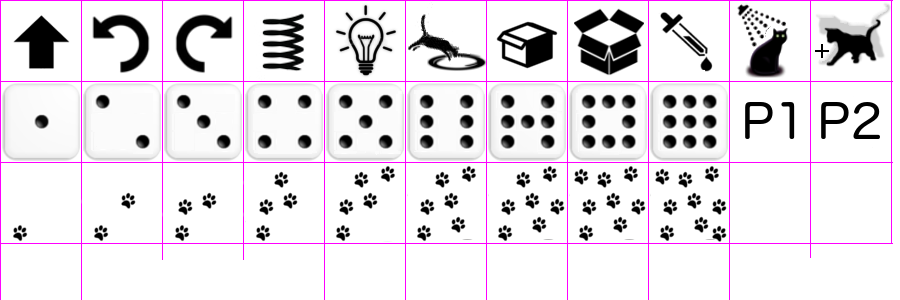
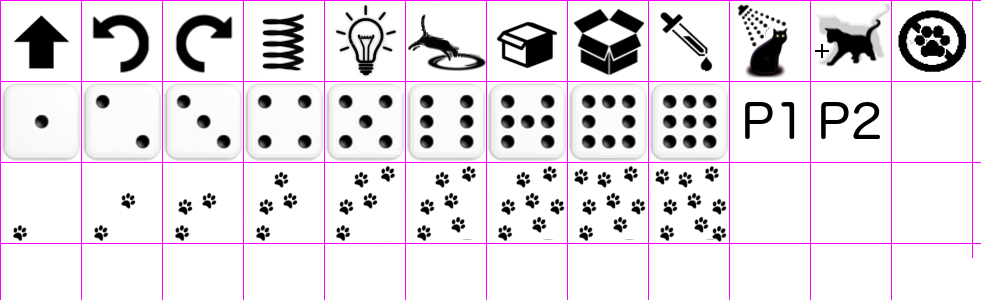
break

diff --git a/src/UI/Gui.java b/src/UI/Gui.java
@@ -20,20 +20,7 @@ import Prog.Color;
 import Prog.Procedure;
 import Prog.Prog;
 import Prog.TypeProcedure;
-import Prog.NormalActions.Fork;
-import Prog.NormalActions.For;
-import Prog.NormalActions.Forward;
-import Prog.NormalActions.Jump;
-import Prog.NormalActions.Left_turn;
-import Prog.NormalActions.Light;
-import Prog.NormalActions.OpenChest;
-import Prog.NormalActions.P1;
-import Prog.NormalActions.P2;
-import Prog.NormalActions.Pipette;
-import Prog.NormalActions.Right_turn;
-import Prog.NormalActions.Shower;
-import Prog.NormalActions.Teleporter;
-import Prog.NormalActions.UseChest;
+import Prog.NormalActions.*;
 
 public class Gui 
 {
@@ -157,6 +144,8 @@ public class Gui
 			else if (act instanceof P2)
 				spr.setTextureRect(new IntRect(811, 82, 80, 80));
 			else if (act instanceof Fork)
+				spr.setTextureRect(new IntRect(811, 1, 80, 80));
+			else if (act instanceof Break)
 				spr.setTextureRect(new IntRect(811, 1, 80, 80));
 
 			spriteList.add(spr);
